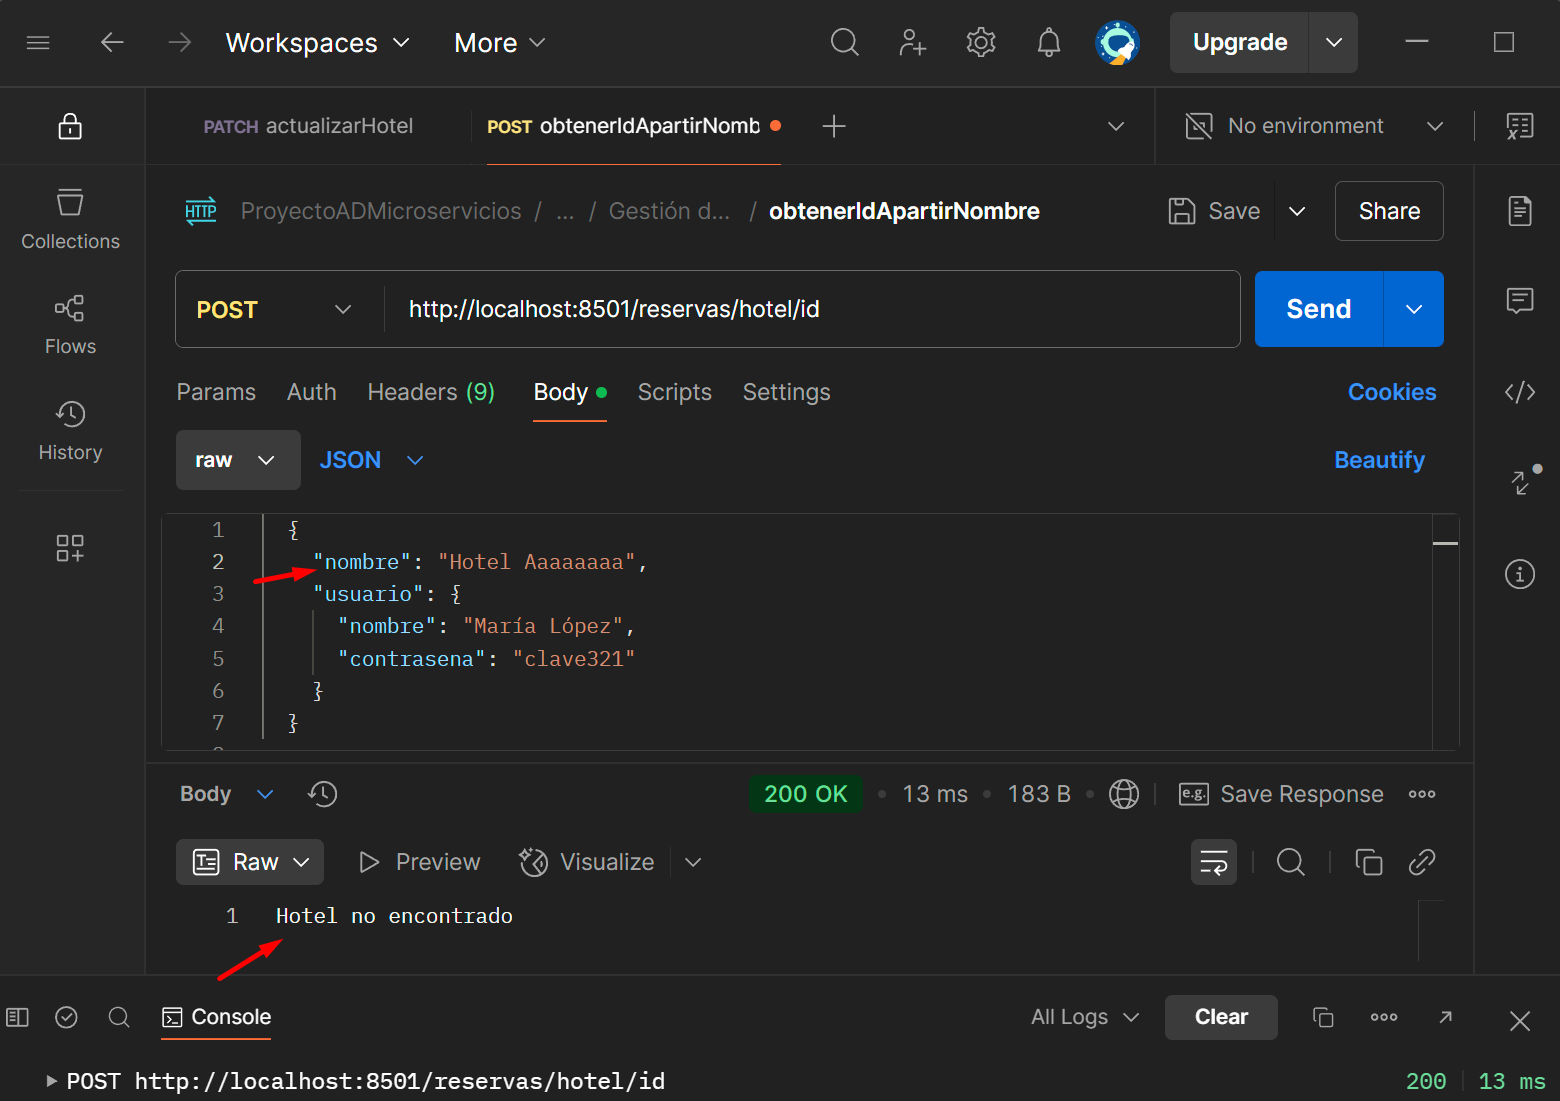
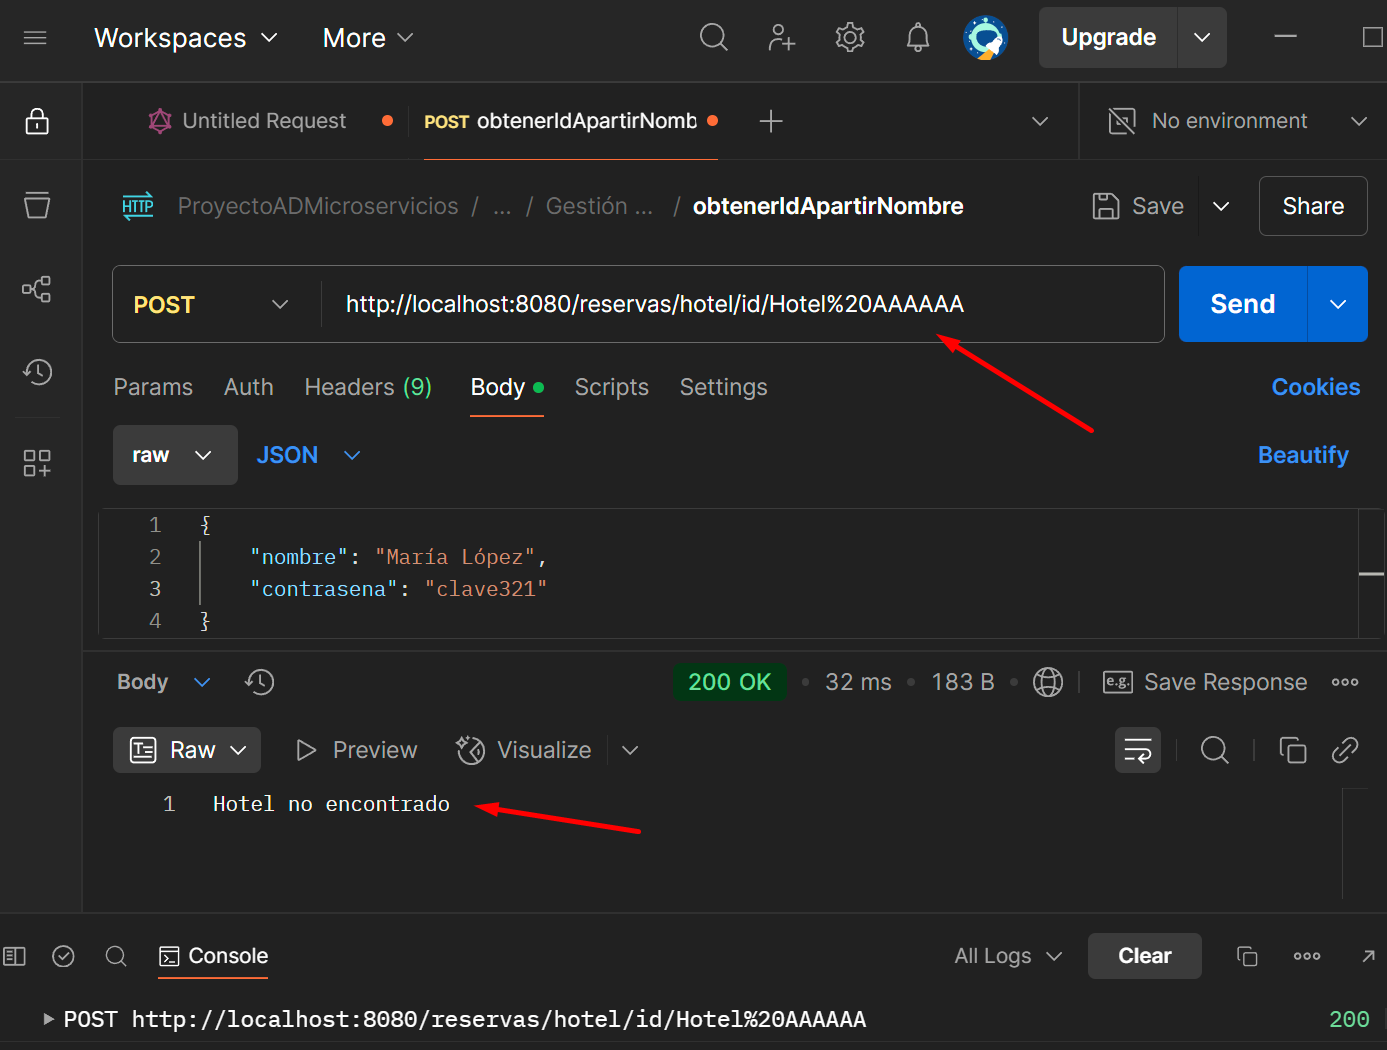
9 commit Confirmados servicios usuarios, reservas
Estan confirmador los metodos, url, excepciones para los micro servicios usuarios, reservas, queda pendiente confirmar el micro servicio comentarios.

diff --git a/reservas/src/main/java/com/hotel/reservas/service/HabitacionService.java b/reservas/src/main/java/com/hotel/reservas/service/HabitacionService.java
@@ -47,16 +47,56 @@ public class HabitacionService {
 
 
     // Método para actualizar una habitación
+//    public String actualizarHabitacion(HabitacionDTO dto) {
+//        if (dto.getId() == null || !habitacionRepository.existsById(dto.getId())) {
+//            return "Habitación no encontrada";
+//        }
+//
+//        Optional<Hotel> hotelOpt = hotelRepository.findById(dto.getIdHotel());
+//        if (hotelOpt.isEmpty()) {
+//            return "Hotel no encontrado";
+//        }
+//
+//        Habitacion habitacion = new Habitacion();
+//        habitacion.setId(dto.getId());
+//        habitacion.setHotel(hotelOpt.get());
+//        habitacion.setNumeroHabitacion(dto.getNumeroHabitacion());
+//        habitacion.setTipo(dto.getTipo());
+//        habitacion.setPrecio(dto.getPrecio());
+//        habitacion.setDisponible(dto.getDisponible());
+//
+//        try {
+//            habitacionRepository.save(habitacion);
+//            return "Habitación actualizada correctamente";
+//        } catch (Exception e) {
+//            e.printStackTrace();
+//            return "Error al actualizar la habitación";
+//        }
+//    }
+    // Método para actualizar una habitación que obliga a pasar todos los campos
     public String actualizarHabitacion(HabitacionDTO dto) {
-        if (dto.getId() == null || !habitacionRepository.existsById(dto.getId())) {
+        // Validar que todos los campos estén completos
+        if (dto.getId() == null ||
+                dto.getNumeroHabitacion() == null ||
+                dto.getTipo() == null || dto.getTipo().isBlank() ||
+                dto.getPrecio() == null ||
+                dto.getIdHotel() == null ||
+                dto.getDisponible() == null) {
+            return "Error al actualizar la habitación: datos incompletos";
+        }
+
+        // Verificar si la habitación existe
+        if (!habitacionRepository.existsById(dto.getId())) {
             return "Habitación no encontrada";
         }
 
+        // Verificar si el hotel existe
         Optional<Hotel> hotelOpt = hotelRepository.findById(dto.getIdHotel());
         if (hotelOpt.isEmpty()) {
             return "Hotel no encontrado";
         }
 
+        // Construir y guardar la entidad actualizada
         Habitacion habitacion = new Habitacion();
         habitacion.setId(dto.getId());
         habitacion.setHotel(hotelOpt.get());
@@ -73,6 +113,9 @@ public class HabitacionService {
             return "Error al actualizar la habitación";
         }
     }
+
+
+
 
     // Método para eliminar una habitación por su ID
     @Transactional //Método transaccional para eliminar habitación

diff --git a/reservas/src/main/java/com/hotel/reservas/controller/HotelController.java b/reservas/src/main/java/com/hotel/reservas/controller/HotelController.java
@@ -25,7 +25,7 @@ public class HotelController {
         }
         return hotelService.crearHotel(dto);
     }
-
+    //PATCH puede implicar actualización parcial no esta obligado a actualizar todos los campos
     // Endpoint para actualizar un hotel usando credenciales de usuario y contraseña
     @PatchMapping
     public String actualizarHotel(@RequestBody HotelDTO dto) {
@@ -45,21 +45,23 @@ public class HotelController {
         return hotelService.eliminarHotel(id);
     }
 
-    // Endpoint para obtener un hotel por su ID usando credenciales de usuario y contraseña
-    @PostMapping("/id")
-    public String obtenerIdApartirNombre(@RequestBody HotelDTO dto) {
-        if (!usuariosRestClient.validarCredenciales(dto.getUsuario().getNombre(), dto.getUsuario().getContrasena())) {
+    // Endpoint para obtener un hotel por su ID a partir del nombre y usando credenciales de usuario y contraseña
+    @PostMapping("/id/{nombreHotel}")
+    public String obtenerIdApartirNombre(@PathVariable String nombreHotel, @RequestBody UsuarioDTO usuario) {
+        if (!usuariosRestClient.validarCredenciales(usuario.getNombre(), usuario.getContrasena())) {
             return "Credenciales incorrectas";
         }
-        return hotelService.obtenerIdApartirNombre(dto.getNombre()); // El nombre del hotel va en dto.getNombre()
+        return hotelService.obtenerIdApartirNombre(nombreHotel);
     }
 
+
     // Endpoint para verificar si un hotel existe por su ID usando credenciales de usuario y contraseña
-    @PostMapping("/nombre")
-    public String obtenerNombreAPartirId(@RequestBody HotelDTO dto) {
-        if (!usuariosRestClient.validarCredenciales(dto.getUsuario().getNombre(), dto.getUsuario().getContrasena())) {
+    @PostMapping("/nombre/{idHotel}")
+    public String obtenerNombreAPartirId(@PathVariable Integer idHotel, @RequestBody UsuarioDTO usuario) {
+        if (!usuariosRestClient.validarCredenciales(usuario.getNombre(), usuario.getContrasena())) {
             return "Credenciales incorrectas";
         }
-        return hotelService.obtenerNombreAPartirId(dto.getId()); // El id del hotel va en dto.getId()
+        return hotelService.obtenerNombreAPartirId(idHotel);
     }
+
 }

diff --git a/reservas/src/main/java/com/hotel/reservas/controller/ReservaController.java b/reservas/src/main/java/com/hotel/reservas/controller/ReservaController.java
@@ -9,7 +9,9 @@ import com.hotel.reservas.repository.ReservaRepository;
 import com.hotel.reservas.service.ReservaService;
 import com.hotel.reservas.service.UsuariosRestClient;
 import org.springframework.beans.factory.annotation.Autowired;
+import org.springframework.http.HttpStatus;
 import org.springframework.web.bind.annotation.*;
+import org.springframework.web.server.ResponseStatusException;
 
 import java.util.List;
 
@@ -47,19 +49,22 @@ public class ReservaController {
         return reservaService.cambiarEstado(dto.getReservaId(), dto.getEstado());
     }
 
-
+    //Aunque el enunciado no dice que devuelva mensaje de error de credenciales incorrectas lo pongo para no recibir un objeto vacio
     // Endpoint para obtener una reserva por su ID usando credenciales de usuario y contraseña
     @GetMapping
     public List<ReservaUsuarioDTO> listarReservasUsuario(@RequestBody UsuarioDTO usuario) {
         if (!usuariosRestClient.validarCredenciales(usuario.getNombre(), usuario.getContrasena())) {
-            return List.of();
+            throw new ResponseStatusException(HttpStatus.UNAUTHORIZED, "Credenciales incorrectas");//Si se prefiere lanzar una excepción en lugar de devolver un objeto vacío sino comentamos este o lo eliminamos
+            //return List.of(); si se prefiere no mostrar el mensaje de error de credenciales incorrectas se descomenta este
         }
         return reservaService.listarReservasUsuario(usuario.getNombre());
     }
 
 
+
+
     // Endpoint para obtener reservas por su estado usando credenciales de usuario y contraseña
-    @GetMapping("/estado/{estado}")
+    @GetMapping("/{estado}")
     public List<ReservaUsuarioDTO> listarReservasSegunEstado(
             @PathVariable String estado,
             @RequestBody UsuarioDTO usuario) {

diff --git a/reservas/src/main/java/com/hotel/reservas/service/HotelService.java b/reservas/src/main/java/com/hotel/reservas/service/HotelService.java
@@ -18,7 +18,27 @@ public class HotelService {
 
 
     // Constructor de la clase
+//    public String crearHotel(HotelDTO dto) {
+//        Hotel hotel = new Hotel();
+//        hotel.setNombre(dto.getNombre());
+//        hotel.setDireccion(dto.getDireccion());
+//
+//        try {
+//            hotelRepository.save(hotel);
+//            return "Hotel creado correctamente";
+//        } catch (Exception e) {
+//            e.printStackTrace();
+//            return "Error al crear el hotel";
+//        }
+//    }
+    // Metodo para crear un nuevo hotel obligando a que el nombre y la dirección no estén vacíos
     public String crearHotel(HotelDTO dto) {
+        // Validar que los campos no estén vacíos
+        if (dto.getNombre() == null || dto.getNombre().isBlank() ||
+                dto.getDireccion() == null || dto.getDireccion().isBlank()) {
+            return "Error al crear el hotel: nombre o dirección incompletos";
+        }
+
         Hotel hotel = new Hotel();
         hotel.setNombre(dto.getNombre());
         hotel.setDireccion(dto.getDireccion());
@@ -32,6 +52,7 @@ public class HotelService {
         }
     }
 
+    //PATCH puede implicar actualización parcial no esta obligado a actualizar todos los campos
     // Método para actualizar un hotel
     public String actualizarHotel(HotelDTO dto) {
         if (dto.getId() == null || !hotelRepository.existsById(dto.getId())) {

diff --git a/usuarios/src/main/java/com/hotel/usuarios/service/UsuarioService.java b/usuarios/src/main/java/com/hotel/usuarios/service/UsuarioService.java
@@ -14,7 +14,23 @@ public class UsuarioService {
     @Autowired
     private UsuarioRepository repo;
     // Metodo para registrar un nuevo usuario
+//    public String crearUsuario(Usuario u) {
+//        try {
+//            repo.save(u);
+//            return "Usuario registrado correctamente";
+//        } catch (Exception e) {
+//            return "Error al registrar usuario";
+//        }
+//    }
     public String crearUsuario(Usuario u) {
+        if (u == null ||
+                u.getNombre() == null || u.getNombre().isBlank() ||
+                u.getCorreoElectronico() == null || u.getCorreoElectronico().isBlank() ||
+                u.getDireccion() == null || u.getDireccion().isBlank() ||
+                u.getContrasena() == null || u.getContrasena().isBlank()) {
+            return "Error al registrar usuario: datos incompletos";
+        }
+
         try {
             repo.save(u);
             return "Usuario registrado correctamente";
@@ -22,7 +38,9 @@ public class UsuarioService {
             return "Error al registrar usuario";
         }
     }
-  // Metodo para actualizar un usuario
+
+
+    // Metodo para actualizar un usuario
     public String actualizarUsuario(Usuario u) {
         if (u.getId() == null || !repo.existsById(u.getId())) {
             return "Usuario no encontrado";

diff --git a/usuarios/src/main/java/com/hotel/usuarios/model/Usuario.java b/usuarios/src/main/java/com/hotel/usuarios/model/Usuario.java
@@ -16,47 +16,10 @@ public class Usuario {
     @GeneratedValue(strategy = GenerationType.IDENTITY)
     @Column(name = "usuario_id")
     private Integer id;
-
     private String nombre;
-
     @Column(name = "correo_electronico")
     private String correoElectronico;
-
     private String direccion;
-
     private String contrasena;
-    // Getters y setters generados automáticamente por Lombok
-/*
-    public Integer getId() {
-        return id;
-    }
-    public void setId(Integer id) {
-        this.id = id;
-    }
-    public String getNombre() {
-        return nombre;
-    }
-    public void setNombre(String nombre) {
-        this.nombre = nombre;
-    }
-    public String getCorreoElectronico() {
-        return correoElectronico;
-    }
-    public void setCorreoElectronico(String correoElectronico) {
-        this.correoElectronico = correoElectronico;
-    }
-    public String getDireccion() {
-        return direccion;
-    }
-    public void setDireccion(String direccion) {
-        this.direccion = direccion;
-    }
-    public String getContrasena() {
-        return contrasena;
-    }
-    public void setContrasena(String contrasena) {
-        this.contrasena = contrasena;
-    }
-    */
 
 }
